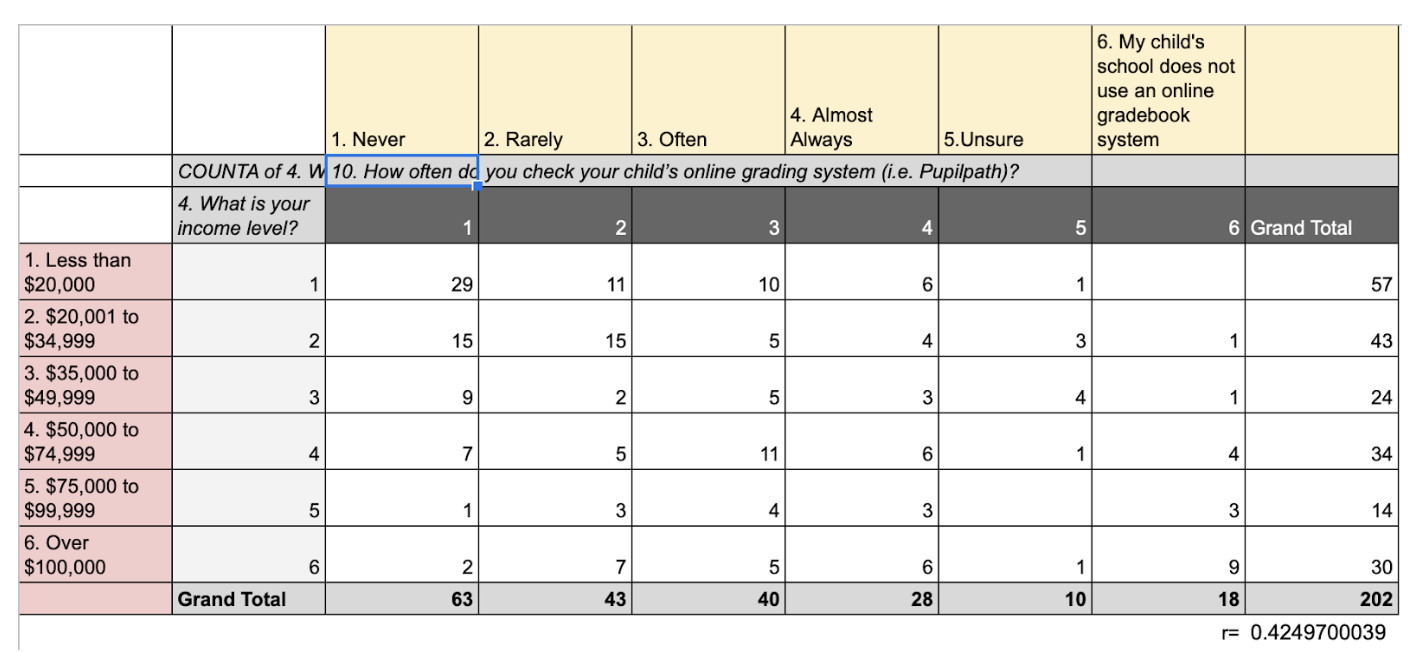
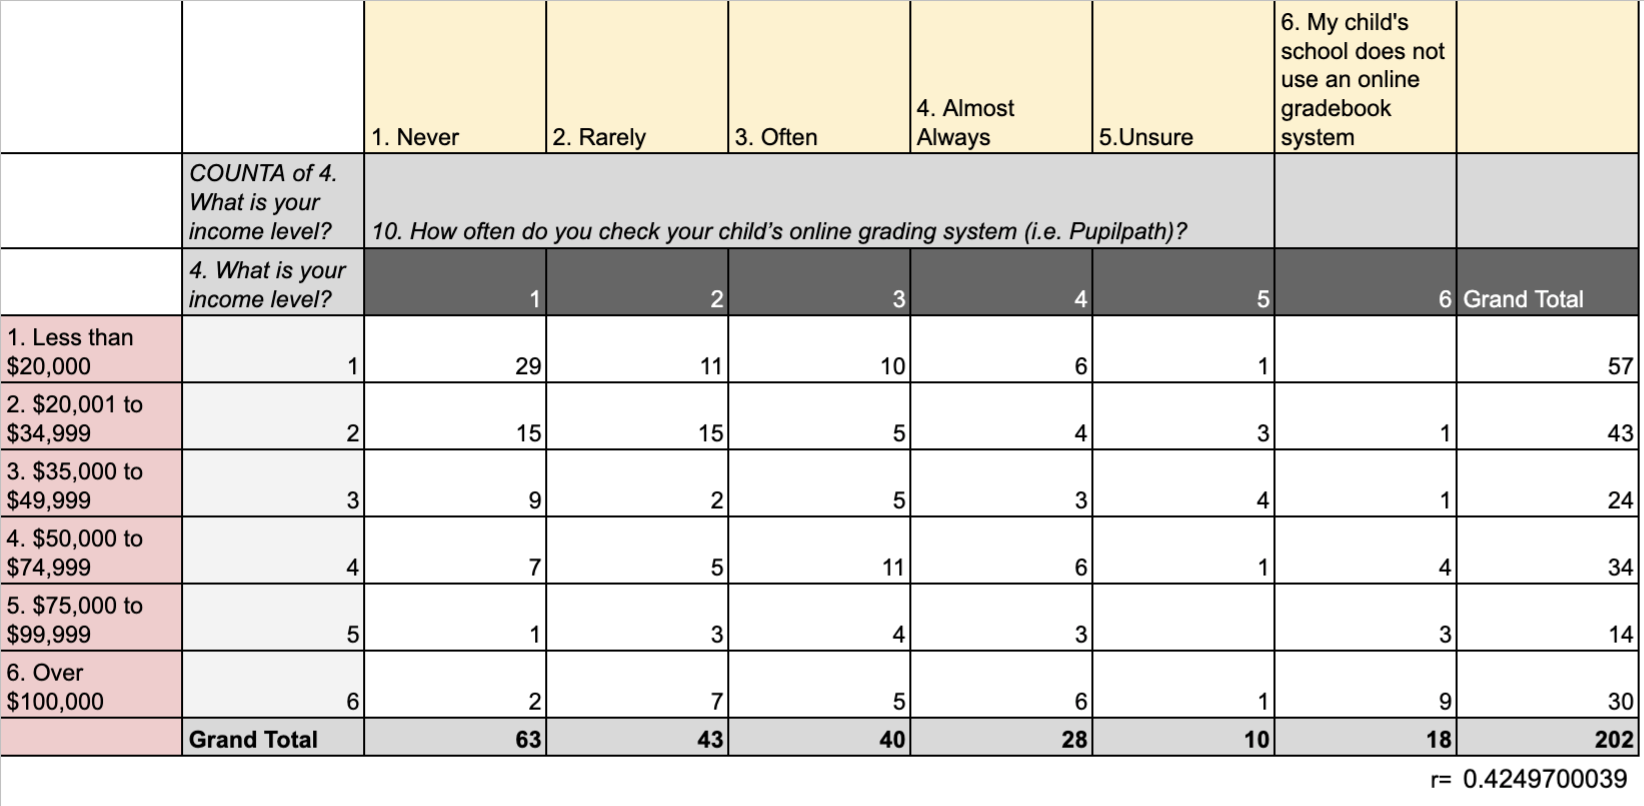
add pivot table

Changed region(s): [[0.0, 0.0, 1.0, 0.9816], [0.0, 0.0307, 0.0311, 0.0613]]

diff --git a/statistics.html b/statistics.html
@@ -192,6 +192,8 @@
 				<div class="row">
 					<div>
 						<h3>The relationship between income level and the frequency of parents checking their Child’s online system</h3><br>
+						
+							<img style="width: 65%" src="img/data/pivot_table.png" alt="" class="img-fluid">
 
 						<br><br>
 						<p>Since the calculated correlation between a parent’s income and how often they check their child’s online grading system revealed a number 0.42, it indicates a moderate correlation between the two variables (See Figure 1 above). From the pivot table,
